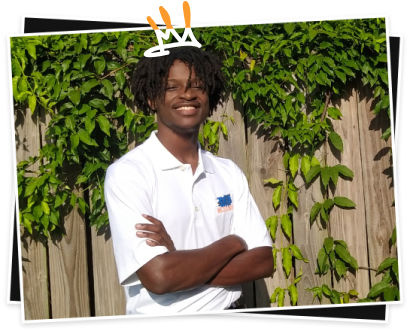
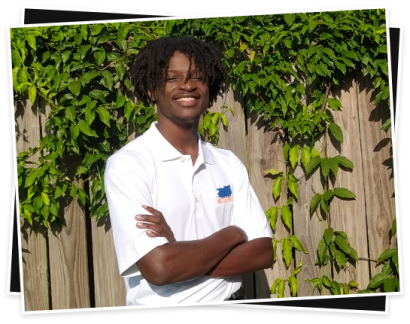
Added links, Updated about section portrait

diff --git a/index.html b/index.html
@@ -23,8 +23,8 @@
             <div class="bottom container">
                <h1 class="h1">Michael <span class="motif">G</span>ombos</h1>
                <h2 class="text-light h3 ">Your Freindly Neighborhood Web Designer</h2>
-               <a class="button hvr-grow">Github</a>
-               <a class="button hvr-grow bg-secondary">Resume</a>
+               <a href="https://github.com/MichaelGombos" class="button hvr-grow">Github</a>
+               <a href="" class="button hvr-grow bg-secondary">Resume</a>
             </div>
          </div>
          <!--canvas is generated here-->
@@ -37,8 +37,8 @@
                <p>While working at SEO for real estate investors, I spent a lot of my time inside of the carrot editor tweaking and designing web pages. The carrot.com design tab offers a CSS editor much like WordPress, but I found the default size to be too small </p>
                <img class="preview" src="./assets/images/carrot-project.png">
                <nav>
-                  <a class="button bg-secondary">Web Store</a>
-                  <a class="button">Github</a>
+                  <a href="https://chrome.google.com/webstore/detail/carrot-css-tab-extender/lgkdfebkigaodhjhbceehdilafpdallo?hl=en"class="button bg-secondary">Web Store</a>
+                  <a href="https://github.com/MichaelGombos/Carrot-CSS-Tab-Extender" class="button">Github</a>
                </nav>
                <div class="tech">
                   <img src="./assets/icons/icon_css.svg">
@@ -51,8 +51,8 @@
                <p>This is a react application build to provide a visual for how data is moved inside of arrays that are ran throught common sorting algorithms.  </p>
                <img class="preview" src="./assets/images/sorter-project.png">
                <nav>
-                  <a class="button bg-secondary">View Live</a>
-                  <a class="button">Github</a>
+                  <a href="https://sparkling-tiramisu-b58a5d.netlify.app/" class="button bg-secondary">View Live</a>
+                  <a href="https://github.com/MichaelGombos/sorting-algorithm-visualizer" class="button">Github</a>
                </nav>
                <div class="tech">
                   <img src="./assets/icons/icon_react.svg">
@@ -69,7 +69,7 @@
 This was one of my first real projects and taught me a lot about extracting content from clients.</p>
                <img class="preview" src="./assets/images/kbkaty-project.png">
                <nav>
-                  <a class="button bg-secondary">View Live</a>
+                  <a href="https://www.kbkaty.com/" class="button bg-secondary">View Live</a>
                </nav>
                <div class="tech">
                   <img src="./assets/icons/icon_css.svg">
